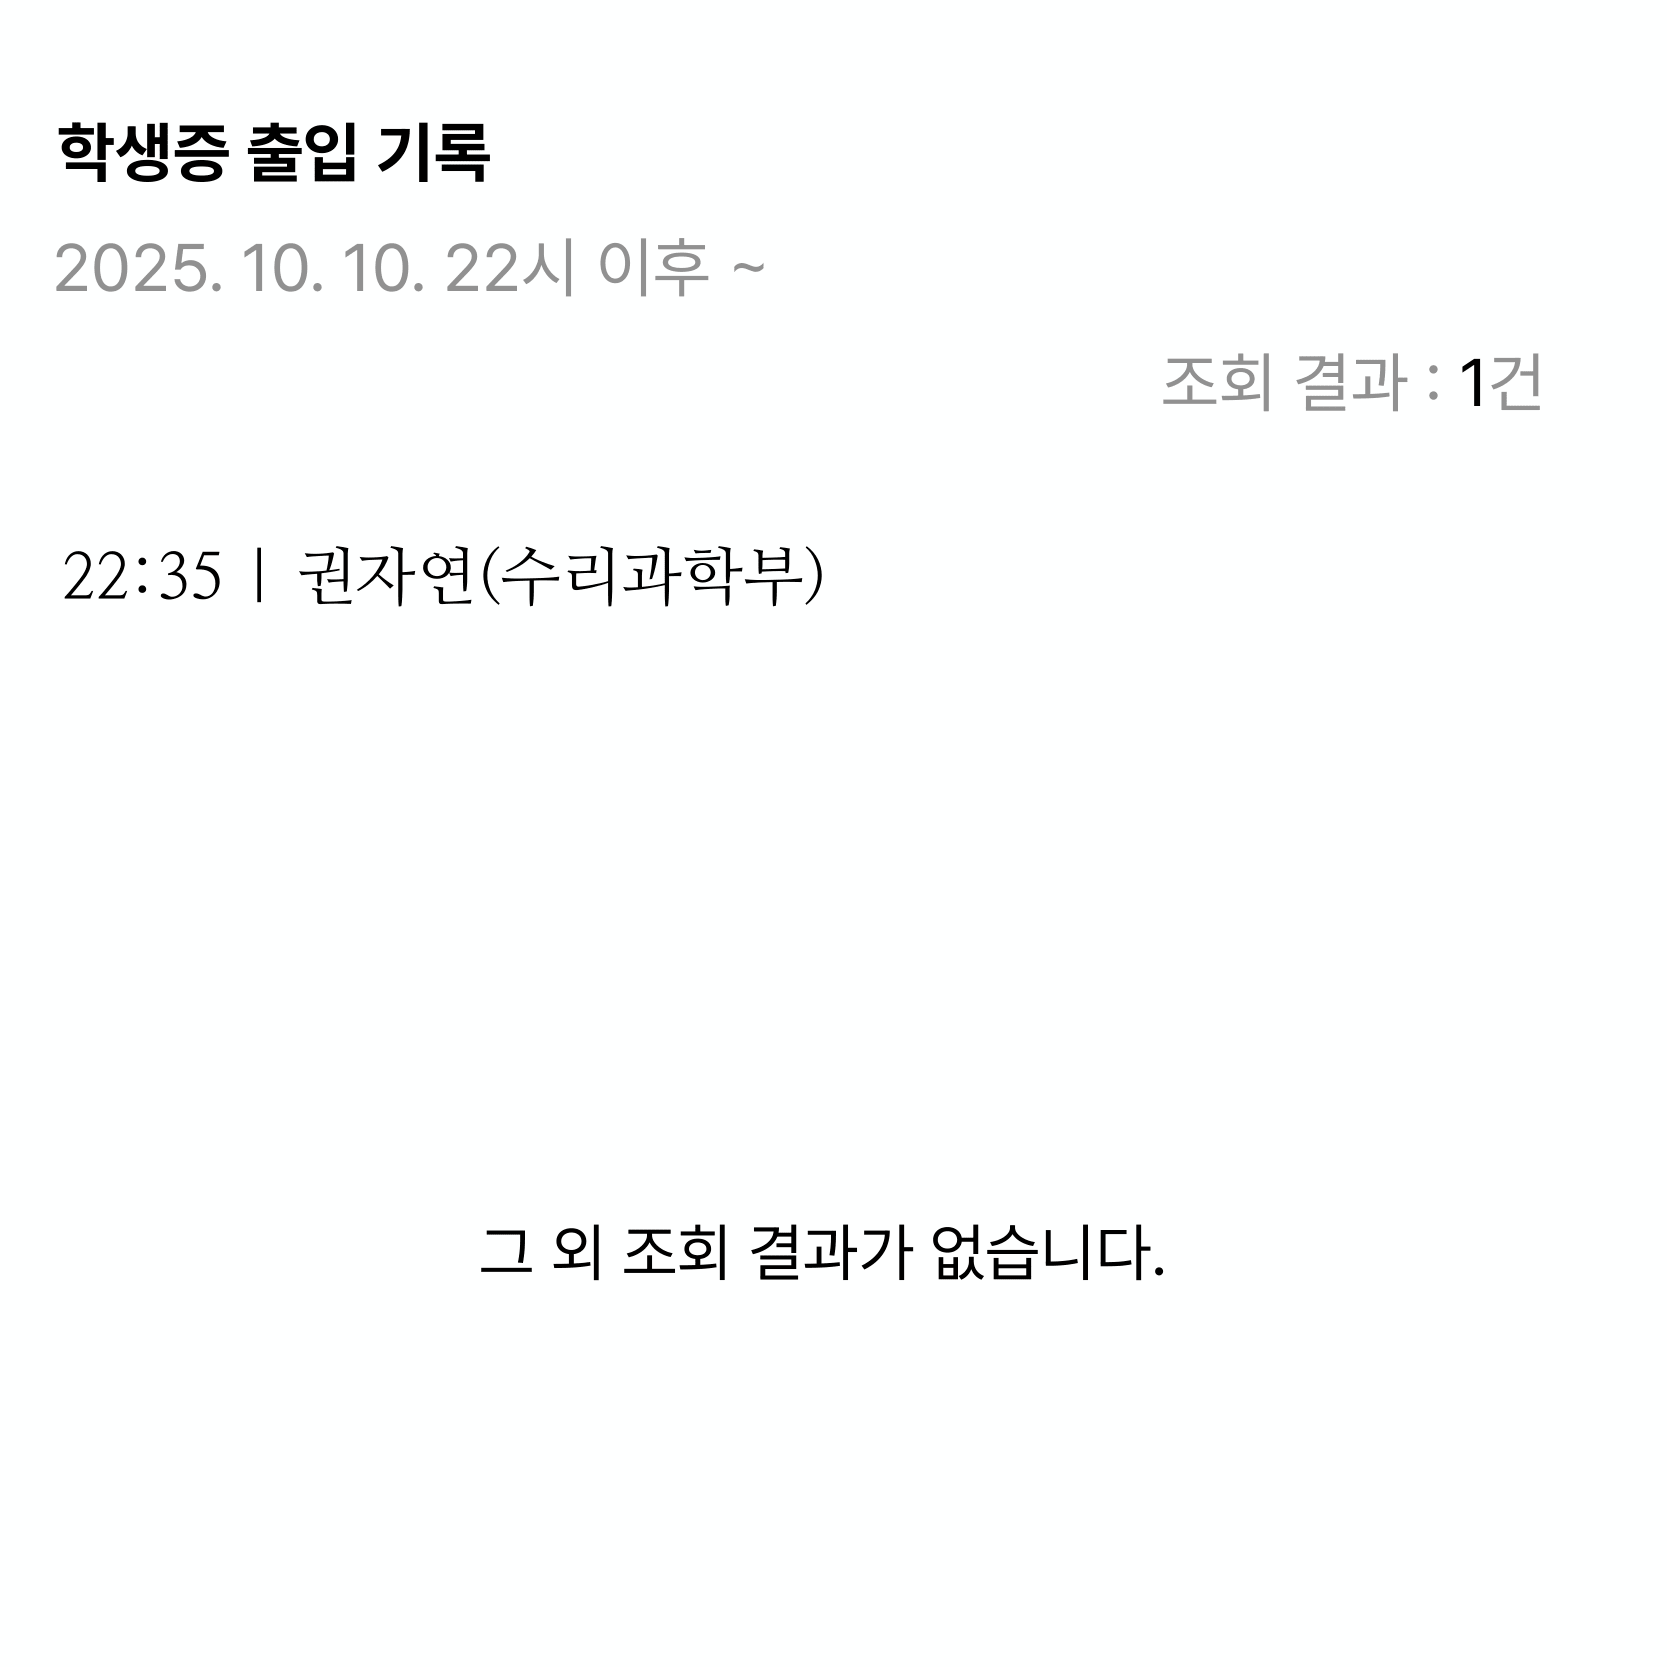
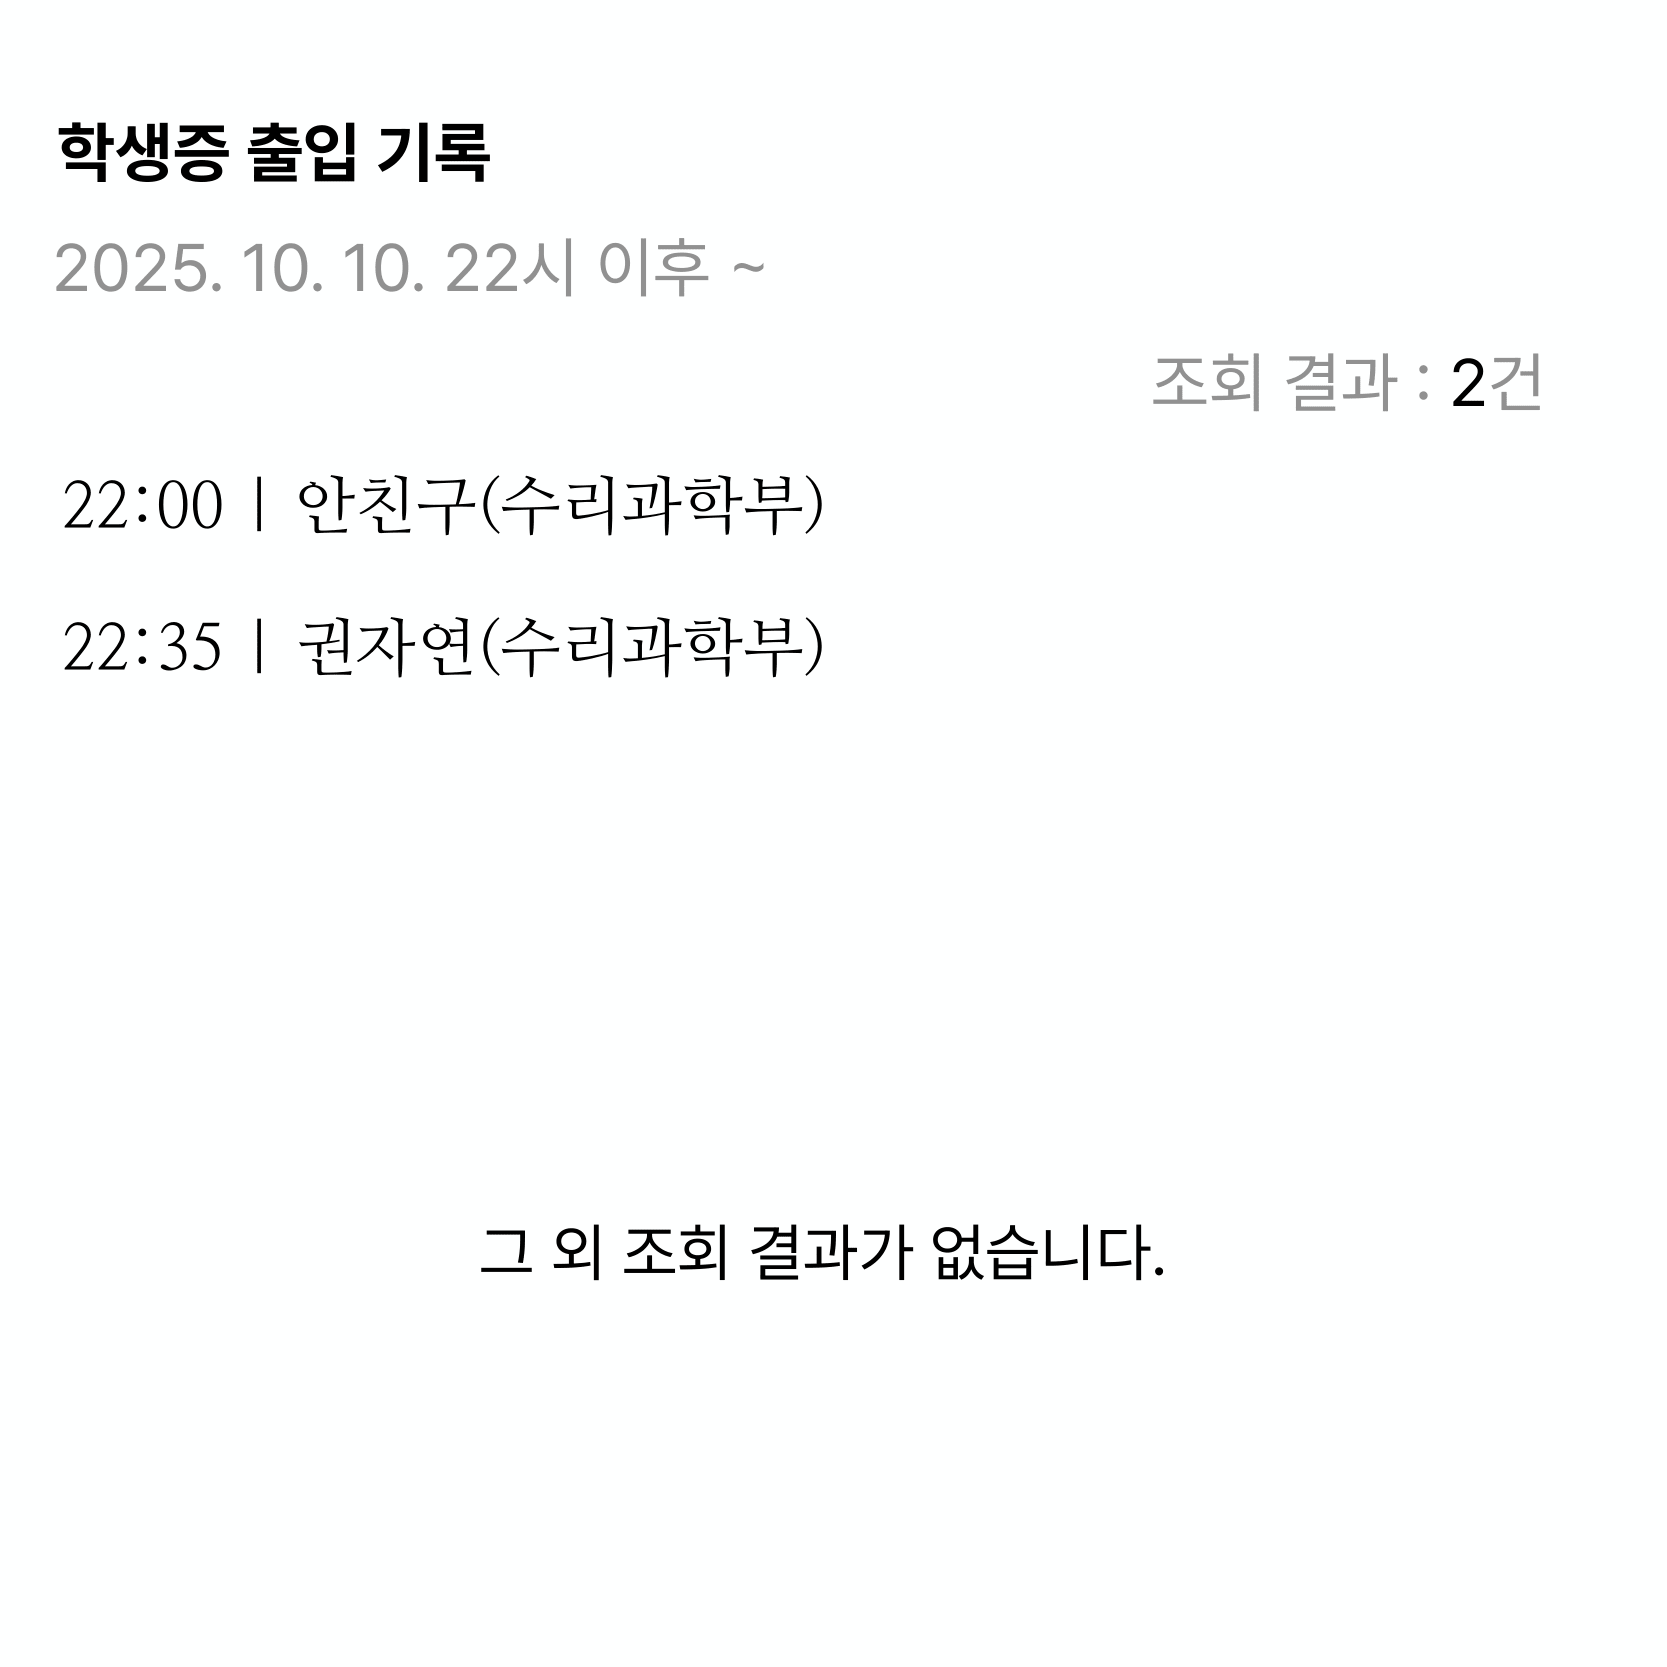
fix: fix scenario error

Changed region(s): [[0.1872, 0.2807, 0.4991, 0.4055], [0.0312, 0.2807, 0.156, 0.4055], [0.6863, 0.2184, 0.9046, 0.2496]]

diff --git a/home/src/features/suspect/fixtures/serial/clues.ts b/home/src/features/suspect/fixtures/serial/clues.ts
@@ -199,7 +199,7 @@ export const serialClues: ClueType[] = [
     y: 75.456,
     image: "/image/suspect/scenario/serial/clues/serial-19.png",
     description:
-      "문이 잠긴 22시 이후 28동을 학생증으로 출입한 기록. 권자연만 기록되어있다.",
+      "22시 이후 28동을 학생증으로 출입한 기록. 안친구와 권자연만 기록되어있다.",
     type: "basic",
     place: "28",
   },
